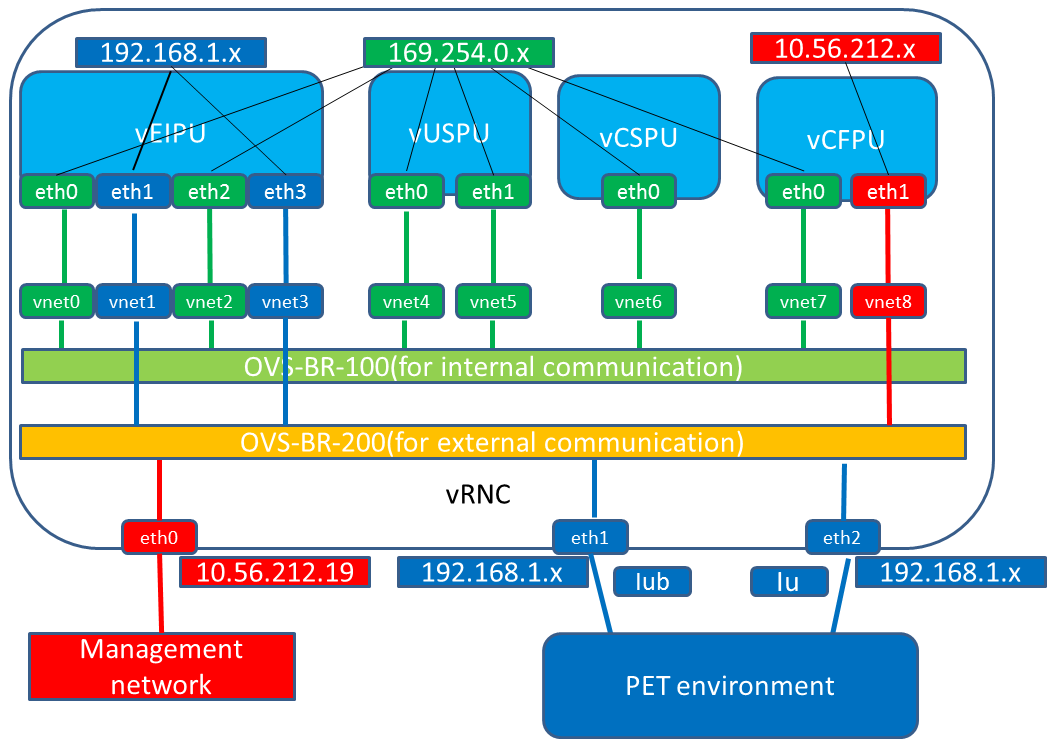
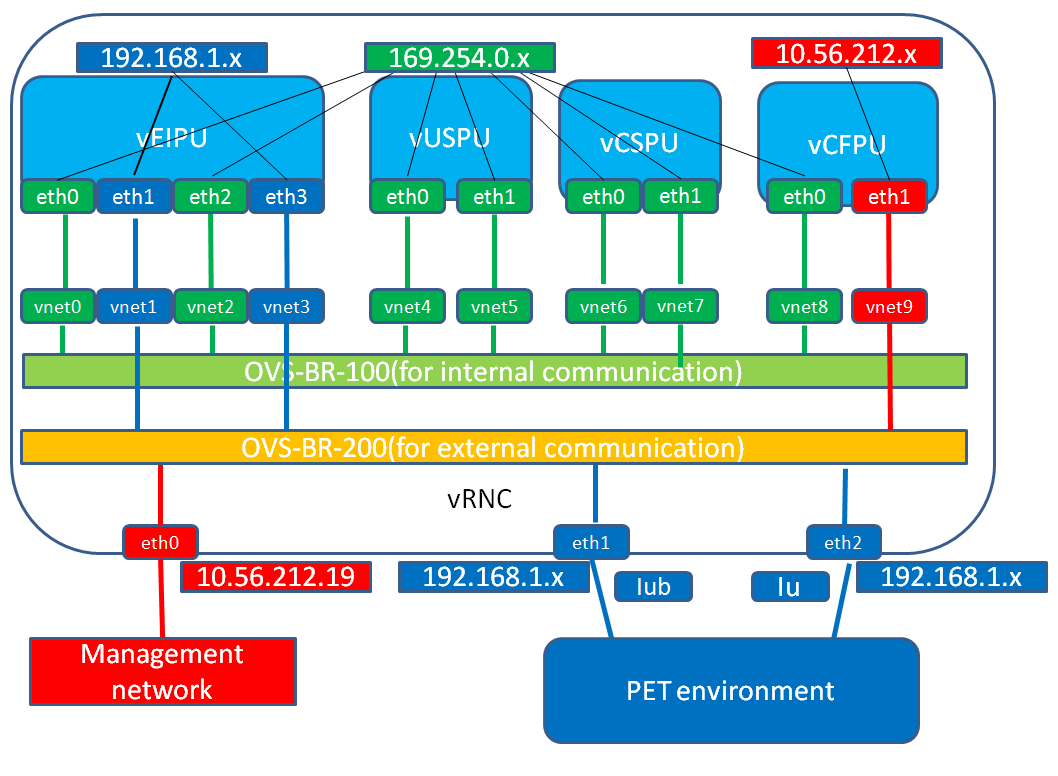
add new

Changed region(s): [[0.0, 0.0, 1.0, 1.0], [0.3438, 0.155, 0.5, 0.31]]

diff --git a/controller_cloud.html b/controller_cloud.html
@@ -7,7 +7,7 @@
 <meta http-equiv="Content-Type" content="text/html;charset=utf-8"/>
 <meta name="title" content="Controller on Cloud"/>
 <meta name="generator" content="Org-mode"/>
-<meta name="generated" content="2014-03-03T18:02+0800"/>
+<meta name="generated" content="2014-03-04T14:53+0800"/>
 <meta name="author" content="Kevin Gao"/>
 <meta name="description" content=""/>
 <meta name="keywords" content="emacs, personal notes"/>
@@ -148,15 +148,7 @@ for the JavaScript code in this tag.
 <li><a href="#sec-1-1-7-3">Way of Cooperation</a></li>
 </ul>
 </li>
-<li><a href="#sec-1-1-8">Study Materials</a>
-<ul>
-<li><a href="#sec-1-1-8-1">DPDK</a></li>
-<li><a href="#sec-1-1-8-2">Cloud</a></li>
-<li><a href="#sec-1-1-8-3">VGP</a></li>
-<li><a href="#sec-1-1-8-4">VSP</a></li>
-<li><a href="#sec-1-1-8-5">Openstack</a></li>
-<li><a href="#sec-1-1-8-6">Materials from Intel</a></li>
-</ul></li>
+<li><a href="#sec-1-1-8">Study Materials</a></li>
 </ul>
 </li>
 <li><a href="#sec-1-2">Project introduction</a>
@@ -198,6 +190,7 @@ for the JavaScript code in this tag.
 <li><a href="#sec-1-3">Tech summarize</a>
 <ul>
 <li><a href="#sec-1-3-1">vSwitch</a></li>
+<li><a href="#sec-1-3-2">virtio support for the Guest NIC</a></li>
 </ul>
 </li>
 </ul>
@@ -604,152 +597,8 @@ Regular meeting
 <h4 id="sec-1-1-8">Study Materials</h4>
 <div class="outline-text-4" id="text-1-1-8">
 
-
-</div>
-
-<div id="outline-container-1-1-8-1" class="outline-5">
-<h5 id="sec-1-1-8-1">DPDK</h5>
-<div class="outline-text-5" id="text-1-1-8-1">
-
-<ul>
-<li id="sec-1-1-8-1-1">Overview<br/>
-<ol>
-<li>You will know, what is DPDK, what it is used for. 
-</li>
-<li>The components in DPDK
-</li>
-<li>How it help you achive better performance on IA based platform
-</li>
-</ol>
-
-<p><a href="./materials/DPDK/IntelDataPlaneDevelopmentKitOverview_Rev1.6.pdf">IntelDataPlaneDevelopmentKitOverview</a>
-</p>
-<p>
-<a href="./dpdk.html">./dpdk.html</a>
-</p>
-<p>
-More info is on dpdk.org
-</p></li>
-</ul>
-<ul>
-<li id="sec-1-1-8-1-2">Programing guide<br/>
-Read this document before you start programing on the DPDK
-<a href="./materials/DPDK/intel-dpdk-programmers-guide.pdf">Programing guide</a>
-</li>
-</ul>
-<ul>
-<li id="sec-1-1-8-1-3">API reference<br/>
-Don't know the meaning of some API, check here.
-<a href="./materials/DPDK/intel_DPDK_API_Ref_Rev1.1.pdf">API reference</a>
-</li>
-</ul>
-<ul>
-<li id="sec-1-1-8-1-4">Sample guilde<br/>
-Here is some basic samples, such as l2fwd? l3fwd? or hello word. 
-<a href="./materials/DPDK/intel-dpdk-sample-applications-user-guide.pdf">samples</a>
-<a href="./materials/DPDK/intel-dpdk-testpmd-application-user-guide.pdf">testpmd</a>
-</li>
-</ul>
-<ul>
-<li id="sec-1-1-8-1-5">Troubleshooting<br/>
-DPDK is used to accelerating the packet handling, Opp, you packet
-lost? start the tracing from here. 
-<a href="./materials/DPDK/looking-for-lost-packets-paper.pdf">looking forthe lost packet</a>
-</li>
-</ul>
-<ul>
-<li id="sec-1-1-8-1-6">Third part supporting<br/>
-Many companies are supporting this DPDK, you may have known some of them
-
-<p>
-<a href="./materials/DPDK/6WINDGate_overview_for_IntelDPDK.pdf">6WindGate</a>
-</p>
-<p>
-<a href="./materials/DPDK/Wind_River_and_Intel_DPDK_Support.pdf">Windriver</a>
-</p>
-<p>
-<a href="./materials/DPDK/dpdk-tieto-support.pdf">Tieto</a>
-</p></li>
-</ul>
-<ul>
-<li id="sec-1-1-8-1-7">Others<br/>
-You may find some tips about better programing on Intel based platform
-<a href="./Materials/DPDK/ia-multicore-packet-processing-paper.pdf">./Materials/DPDK/ia-multicore-packet-processing-paper.pdf</a>
-
-<p>
-<a href="./materials/DPDK/ia-data-plane-packet-processing-paper.pdf">./materials/DPDK/ia-data-plane-packet-processing-paper.pdf</a>
-</p>
-</li>
-</ul>
-</div>
-
-</div>
-
-<div id="outline-container-1-1-8-2" class="outline-5">
-<h5 id="sec-1-1-8-2">Cloud</h5>
-<div class="outline-text-5" id="text-1-1-8-2">
-
-<p><a href="./materials/Cloud/VirtualizationIntro-V2-4.ppt">Virtualization</a>
-</p>
-<p>
-<a href="./materials/Cloud/Intel虚拟化技术-从VT-x到VT-d.pdf">Vitualization in Intel</a>
-</p>
-<p>
-<a href="./materials/Cloud/Intro+to+Cloud+Computing.pptx">Cloud Computing</a>
-</p>
-<p>
-<a href="./materials/Cloud/carrier-cloud-telecoms.pdf">carrier-cloud-telecoms</a>
-</p>
-</div>
-
-</div>
-
-<div id="outline-container-1-1-8-3" class="outline-5">
-<h5 id="sec-1-1-8-3">VGP</h5>
-<div class="outline-text-5" id="text-1-1-8-3">
-
-<p>Virtual Gateway Platform (VGP) is the
-name used by MBB product management for the software platform that
-enables deployment and operation of FlexiNG and other product
-applications as guests in a virtualization infrastructure
-</p>
-<p>
-<a href="https://sharenet-ims.inside.nokiasiemensnetworks.com/Overview/D506674097">Overview</a>
-</p>
-<p>
-<a href="https://sharenet-ims.inside.nokiasiemensnetworks.com/livelink/livelink?func=ll&amp;objId=506169440&amp;objAction=Browse">More in VGP</a>
-</p>
-</div>
-
-</div>
-
-<div id="outline-container-1-1-8-4" class="outline-5">
-<h5 id="sec-1-1-8-4">VSP</h5>
-<div class="outline-text-5" id="text-1-1-8-4">
-
-<p><a href="./materials/Virtualized+Server+Platform+(VSP1.0+P6)+Architecture+Description.docx">./materials/Virtualized+Server+Platform+(VSP1.0+P6)+Architecture+Description.docx</a>
+<p><a href="./cloud_study_materials.html">./cloud_study_materials.html</a>
 </p></div>
-
-</div>
-
-<div id="outline-container-1-1-8-5" class="outline-5">
-<h5 id="sec-1-1-8-5">Openstack</h5>
-<div class="outline-text-5" id="text-1-1-8-5">
-
-<p><a href="https://workspaces.emea.nsn-net.net/sites/OSR/Wiki/OpenStack Reference Stack.aspx">Openstack reference wiki</a>
-<a href="./openstack.html">./openstack.html</a>
-</p></div>
-
-</div>
-
-<div id="outline-container-1-1-8-6" class="outline-5">
-<h5 id="sec-1-1-8-6">Materials from Intel</h5>
-<div class="outline-text-5" id="text-1-1-8-6">
-
-<p><a href="./materials/Intel/">./materials/Intel/</a>
-</p>
-</div>
-</div>
 </div>
 
 </div>
@@ -1005,7 +854,6 @@ Porting ipalight to virtualized platform.
 <h5 id="sec-1-2-3-2">Phase2</h5>
 <div class="outline-text-5" id="text-1-2-3-2">
 
-
 </div>
 </div>
 
@@ -1044,6 +892,24 @@ One DPDK instance will be regarded as a normal dmxmsg user to transmit both CP a
 <p>
 The fourth one is preferred by Ahmed, we plan to estimate the effort
 for it.
+</p></li>
+</ul>
+<ul>
+<li id="sec-1-2-4-1-2">Tue Mar  4 10:19:50 2014<br/>
+For the ip stack over DPDK, we tried the rump kernel, it's too heavy
+for our use, and the archtecture is not suitable for our usage
+here is a short report about this research
+
+
+
+<pre class="example">\\rncipafs1\DA3\con-cloud-poc\workshop\IPStack
+</pre>
+
+<p>
+Next step, we plan to use the example l3fwd in DPDK as a code based,
+and porting needed function from different parts, such as the
+lightweight ip stack in Cavium SDK, the IP stack in 6wind, and other
+examples in DPDK. 
 </p></li>
 </ul>
 </div>
@@ -1276,46 +1142,24 @@ b. One wiki page for the whole project, can be re-used the HZ page?
 <h4 id="sec-1-3-1">vSwitch</h4>
 <div class="outline-text-4" id="text-1-3-1">
 
-<p><a href="http://openvswitch.org/support/">Open vSwitch HOWTO</a>
-</p>
-<p>
-<img src="./cloud/vswitch.png"  alt="./cloud/vswitch.png" />
-</p>
-<p>
-<a href="https://01.org/packet-processing/intel®-ovdk">vSwitch with Intel DPDK</a>
-</p>
-<p>
-<a href="https://01.org/sites/default/files/downloads/intel_dpdk_vswitch_040_gsg.pdf">configuration guide</a>
-</p>
-<p>
-Solution from Windriver
-</p>
-<p>
-<img src="./cloud/open-virtualization-profile-diagram.jpg"  alt="./cloud/open-virtualization-profile-diagram.jpg" />
-</p>
-<p>
-Solution from 6Wind
-</p>
-<p>
-<img src="./cloud/ovs_6wind.png"  alt="./cloud/ovs_6wind.png" />
-</p>
-<p>
-<a href="http://www.opendataplane.org/wp-content/uploads/2013/12/ODPLaunchOverview1.pdf">ODP overview</a>
-</p>
-<p>
-Hight level arch
-</p>
-<p>
-<img src="./cloud/ODP_arch.png"  alt="./cloud/ODP_arch.png" />
-</p>
+<p><a href="./vSwitch_summary.html">./vSwitch_summary.html</a>
+</p></div>
+
 </div>
+
+<div id="outline-container-1-3-2" class="outline-4">
+<h4 id="sec-1-3-2">virtio support for the Guest NIC</h4>
+<div class="outline-text-4" id="text-1-3-2">
+
+<p><a href="http://www.linux-kvm.org/page/Using_VirtIO_NIC">One experiment in debian</a>
+</p></div>
 </div>
 </div>
 </div>
 </div>
 
 <div id="postamble">
-<p class="date">Date: 2014-03-03T18:02+0800</p>
+<p class="date">Date: 2014-03-04T14:53+0800</p>
 <p class="author">Author: Kevin Gao</p>
 <p class="email"><a href="mailto:leijia.gao@nsn.com">leijia.gao@nsn.com</a></p>
 <a href="http://validator.w3.org/check?uri=referer">Validate XHTML 1.0</a>

diff --git a/controller_cloud_phase1.html b/controller_cloud_phase1.html
@@ -7,7 +7,7 @@
 <meta http-equiv="Content-Type" content="text/html;charset=iso-8859-1"/>
 <meta name="title" content="Controller Cloud phase1 introduction"/>
 <meta name="generator" content="Org-mode"/>
-<meta name="generated" content="2014-03-03T18:02+0800"/>
+<meta name="generated" content="2014-03-04T13:38+0800"/>
 <meta name="author" content="Kevin Gao"/>
 <meta name="description" content=""/>
 <meta name="keywords" content="emacs, personal notes"/>
@@ -439,6 +439,21 @@ Traffic: Internal
 HAS, vNode internal communication, Dmxmsg
 </p></li>
 </ul>
+<ul>
+<li id="sec-1-1-2-4-3-2">eth1<br/>
+Ip address:169.254.0.x
+
+<p>
+Fastpath
+</p>
+<p>
+Traffic: Internal
+</p>
+<p>
+FastDist, Dmxmsg
+</p>
+</li>
+</ul>
 </li>
 </ul>
 <ul>
@@ -453,7 +468,7 @@ HAS, vNode internal communication, Dmxmsg
 </div>
 
 <div id="postamble">
-<p class="date">Date: 2014-03-03T18:02+0800</p>
+<p class="date">Date: 2014-03-04T13:38+0800</p>
 <p class="author">Author: Kevin Gao</p>
 <p class="email"><a href="mailto:leijia.gao@nsn.com">leijia.gao@nsn.com</a></p>
 <a href="http://validator.w3.org/check?uri=referer">Validate XHTML 1.0</a>

diff --git a/theindex.html b/theindex.html
@@ -7,7 +7,7 @@
 <meta http-equiv="Content-Type" content="text/html;charset=iso-8859-1"/>
 <meta name="title" content="Kevin Gao's personal Site"/>
 <meta name="generator" content="Org-mode"/>
-<meta name="generated" content="2014-03-03T18:09+0800"/>
+<meta name="generated" content="2014-03-04T14:53+0800"/>
 <meta name="author" content="Kevin Gao"/>
 <meta name="description" content=""/>
 <meta name="keywords" content=""/>
@@ -219,7 +219,7 @@ for the JavaScript code in this tag.
 </div>
 
 <div id="postamble">
-<p class="date">Date: 2014-03-03T18:09+0800</p>
+<p class="date">Date: 2014-03-04T14:53+0800</p>
 <p class="author">Author: Kevin Gao</p>
 <p class="email"><a href="mailto:leijia.gao@nsn.com">leijia.gao@nsn.com</a></p>
 <a href="http://validator.w3.org/check?uri=referer">Validate XHTML 1.0</a>
